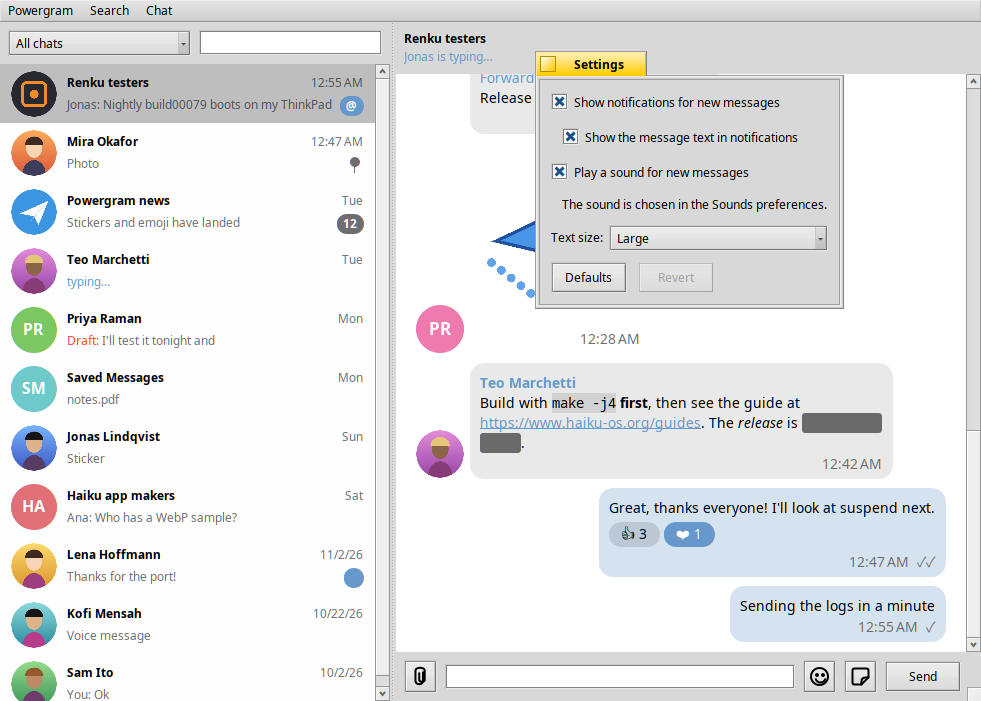
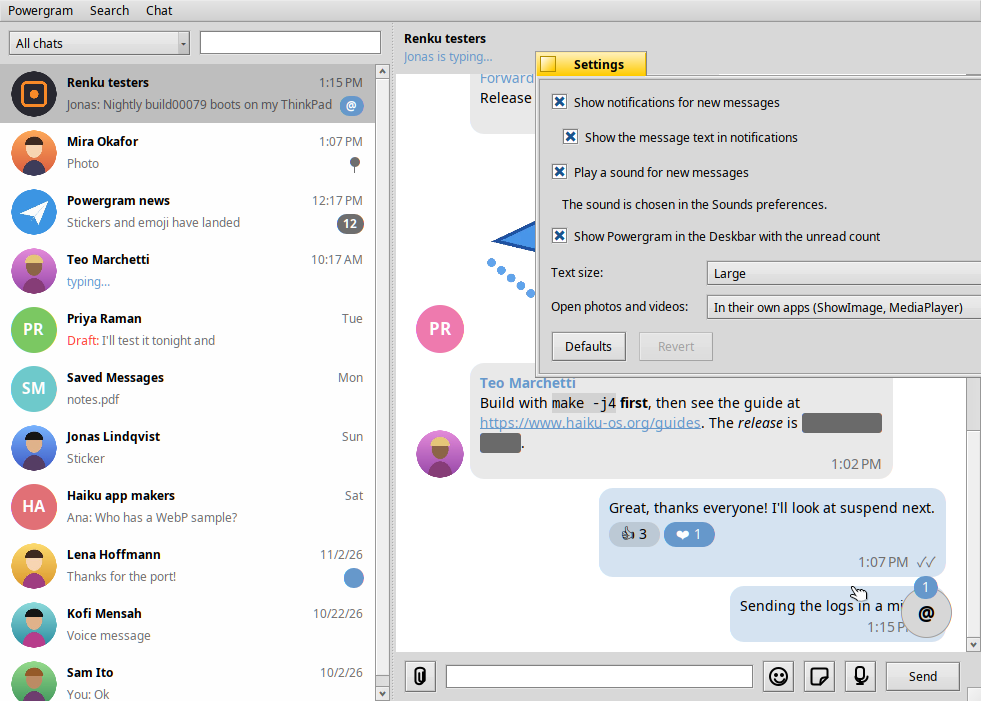
README: the viewer, QR login and secret chats, with screenshots
Claude-Session: https://claude.ai/code/session_01PoWUVPgzNSCtkitq3aGJNt

diff --git a/README.md b/README.md
@@ -25,7 +25,8 @@ added since 0.2.0, and videos, GIFs, round video messages, sending photos and
 files, spoilers and self-destructing photos, has only been checked with
 made-up data so far.
 
-- Logging in: phone number, code, cloud password, new accounts
+- Logging in: phone number, code, cloud password, new accounts, or a QR code
+  scanned with Telegram on your phone (Settings > Devices > Link Desktop Device)
 - Your own API key, entered in the login window: it opens my.telegram.org/apps
   in your browser, and pasting the api_id and api_hash lines fills both fields
 - Chat list with profile pictures, unread and mention badges, pinned chats,
@@ -53,7 +54,16 @@ made-up data so far.
 - Your profile (Powergram > Profile): picture, name and bio, and the devices
   logged in to your account, any of which you can log out
 - Settings: notifications, message text in notifications, a sound (chosen in
-  the Sounds preferences), text size
+  the Sounds preferences), text size, and where photos and videos open
+- Photos and videos open in their own apps (ShowImage, MediaPlayer) as
+  before, or, if Settings say so, in Powergram's viewer: videos play with
+  sound, Space or a click pauses, the slider or the arrow keys seek, GIFs
+  loop; a button opens the file in its app anyway. The message menu always
+  offers both
+- Secret chats (Chat > New secret chat): end-to-end encrypted, on this
+  computer only; a green padlock in the chat list, a self-destruct timer
+  (Chat > Self-destruct timer), notifications without the text, and the
+  encryption key in Info as a picture to compare with the other phone
 - Photos, videos, GIFs, round video messages and stickers (WebP; animated
   stickers show their emoji); spoilers and self-destructing photos
 - Sending text, photos, videos (MP4 and QuickTime, with their size and
@@ -72,8 +82,7 @@ made-up data so far.
   apps send them, and every request throttled (a few at a time, and a full
   stop when Telegram asks to wait)
 
-Not yet: calls, secret chats, QR-code login, video
-playback inside the app (videos open in MediaPlayer), a Linux (Cosmoe) build.
+Not yet: calls, a Linux (Cosmoe) build.
 
 ## Screenshots
 
@@ -114,7 +123,16 @@ Chat info: the description, members and shared photos.
 Your profile, and the devices logged in to your account.
 
 ![The Settings window](docs/screenshots/haiku-settings.png)
-Settings apply at once; here the text size is Large.
+Settings apply at once; here the text size is Large. Photos and videos open in their own apps unless you choose Powergram.
+
+![Powergram's video viewer](docs/screenshots/haiku-viewer.png)
+Powergram's viewer playing a video, with a button to open it in MediaPlayer instead.
+
+![A secret chat and its encryption key](docs/screenshots/haiku-secret.png)
+A secret chat: the padlock in the chat list, and the encryption key to compare with the other phone.
+
+![Logging in with a QR code](docs/screenshots/haiku-qr.png)
+Logging in with a QR code (this one is made up).
 
 ## Platforms
 
@@ -141,10 +159,14 @@ needs only OpenSSL and zlib at run time. Install `noto_emoji` for emoji.
 
 `make test` runs the core tests (login flow, chat list, history, throttling,
 files and download progress, stickers, formatting, presence, voice, chat info,
-links and usernames, pinned messages, voice recording, mentions, profile and devices) on any system with a C++17 compiler.
+links and usernames, pinned messages, voice recording, mentions, profile and devices,
+QR login, secret chats) on any system with a C++17 compiler, and `make qr-check`
+reads the login QR code back with zbarimg.
 On Haiku, `make file-saving-test` checks saving received files and
 `make voice-record-test` checks the voice message files it records and
-`make media-probe-test` what files are sent as (photo, video or document).
+`make media-probe-test` what files are sent as (photo, video or document) and
+`make video-playback-test` the viewer's video playback (timing, pausing,
+seeking, the end, looping, and sound staying with the picture).
 
 ## Your API key
 
